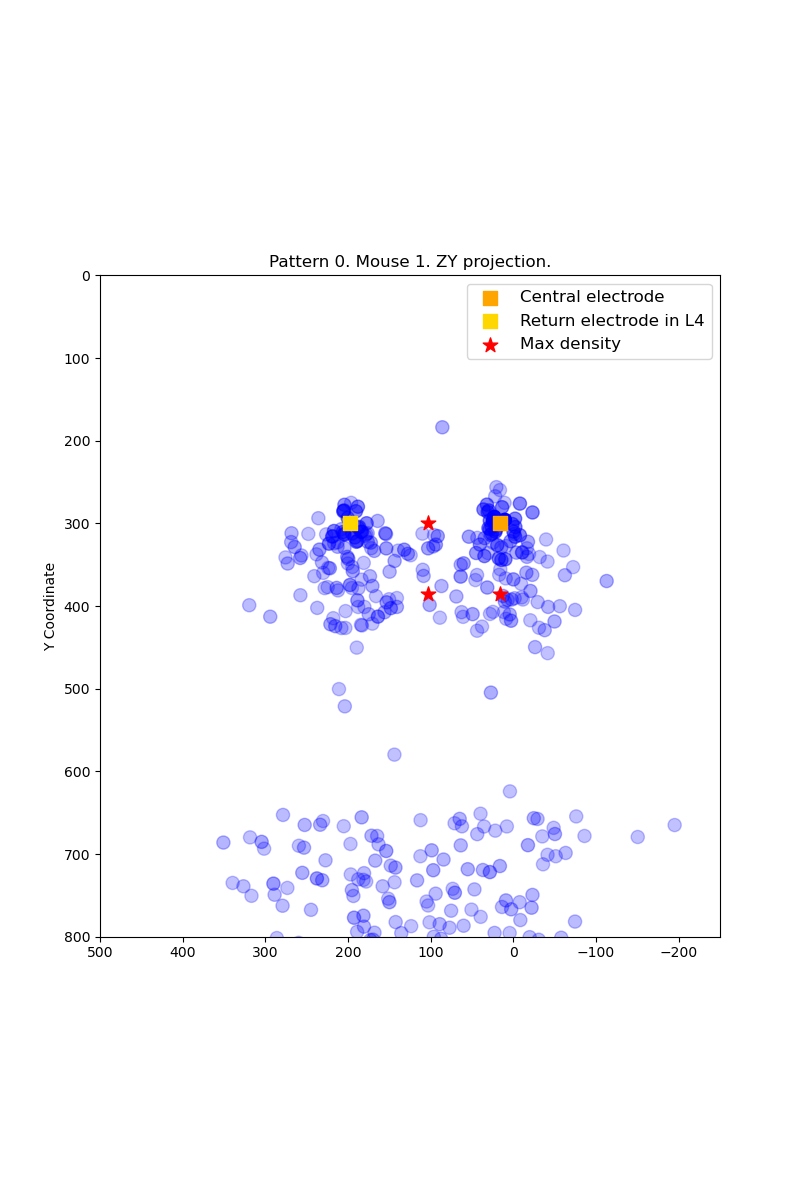
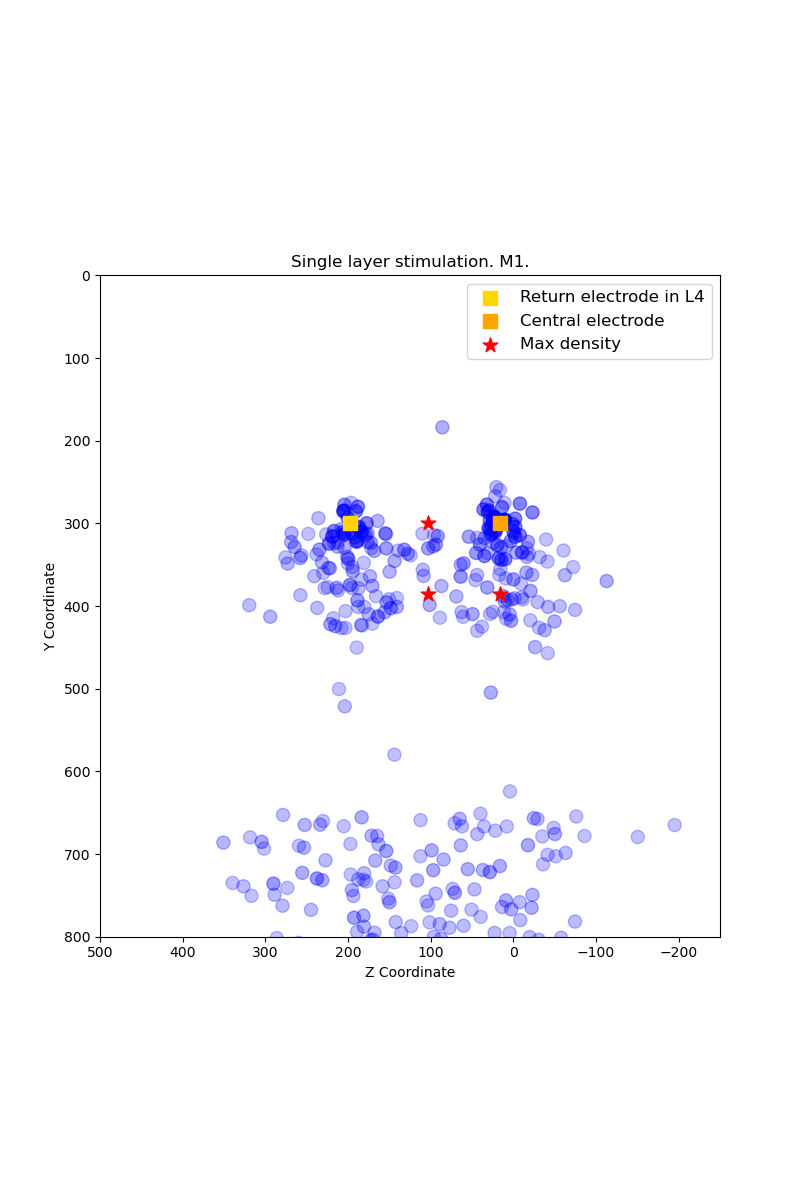
plots

Changed region(s): [[0.3438, 0.2158, 0.875, 0.2775], [0.4688, 0.8017, 0.5625, 0.8325]]

diff --git a/v1_Anke/toolbox/data_analyser_2.py b/v1_Anke/toolbox/data_analyser_2.py
@@ -58,7 +58,7 @@ def get_spikes(exp,pattern,mouse,amplitude, v1=True, **kwargs):
         #    spikes_bkg = pd.read_csv(spikes_bkg_dir, sep='\s+')
         #    for ind in spikes_bkg.index:
         #        if spikes_bkg['timestamps'][ind] < 100:
-         #           n_spikes_temp[spikes_bkg['node_ids'][ind]] = max(0, n_spikes_temp[spikes_bkg['node_ids'][ind]] - 1)
+        #           n_spikes_temp[spikes_bkg['node_ids'][ind]] = max(0, n_spikes_temp[spikes_bkg['node_ids'][ind]] - 1)
 
         node_pos = np.vstack((node_pos, node_pos_temp))
         n_spikes = np.append(n_spikes, n_spikes_temp)
@@ -109,6 +109,14 @@ def Pearsoncorrel(n_spikes_A, n_spikes_B,pattern_A,pattern_B,threshold_A, thresh
 
         statistic, pvalue = pearsonr(n_spikes_A, n_spikes_B, alternative ="greater")
         print('The Pearson correlation coefficient for stim patterns '+str(pattern_A)+' and '+str(pattern_B)+' is ' + str(round(statistic,2))+', the pvalue is '+str(round(pvalue,4)))
+        
+        plt.figure()
+        plt.scatter(n_spikes_A, n_spikes_B, s=30, cmap='viridis')
+        plt.xlabel('Spike rates for pattern ' + str(pattern_A))
+        plt.ylabel('Spike rates for pattern ' + str(pattern_B))
+        plt.show()
+    
+
         return(statistic, pvalue)
 
 def kernel_density_estimate(node_pos, n_spikes, pattern):
@@ -278,20 +286,31 @@ def plot1_kde(node_pos, n_spikes, pattern, mouse):
     electrode_3_zy=[198,170]
 
     fig = plt.figure(figsize=(8,12))
-        
+
+    if pattern==0:
+        pattern_title="Single layer stimulation. M"+str(mouse)+"."
+        plt.scatter(electrode_1_zy[0], electrode_1_zy[1], color='gold', s=110, marker='s', label='Return electrode in L4', zorder=3)
+    elif pattern==5:
+        pattern_title="Multilayer stimulation - 1 return electrode. M"+str(mouse)+"."
+        plt.scatter(electrode_2_zy[0], electrode_2_zy[1], color='gold', s=110, marker='s', label='Return electrode 1 in L2/3', zorder=3)
+    else:
+        pattern_title="Multilayer stimulation - 2 return electrodes. M"+str(mouse)+"."
+        plt.scatter(electrode_2_zy[0], electrode_2_zy[1], color='gold', s=110, marker='s', label='Return electrode 1 in L2/3', zorder=3)
+        plt.scatter(electrode_3_zy[0], electrode_3_zy[1], color='yellow', s=110, marker='s', label='Return electrode 2 in L2/3', zorder=3)
+
     #plt.axline(electrode_0_zy, electrode_1_zy, color='limegreen', label='Along layer')
     #plt.axline(electrode_0_zy, electrode_2_zy, color='darkgreen', label='Along column')
     plt.scatter(node_pos[:,1], node_pos[:,0], s=90, c="blue", alpha=n_spikes_norm)
     #plt.scatter(electrode_2_zy[0], electrode_2_zy[1], color='gold', s=110, marker='s', label='Return electrode 1 in L2/3', zorder=3)
     plt.scatter(electrode_0_zy[0], electrode_0_zy[1], color='orange', s=110, marker='s', label='Central electrode', zorder=3)
     #plt.scatter(electrode_1_zy[0], electrode_1_zy[1], color='gold', s=110, marker='s', label='Return electrode in L4', zorder=3)
-    plt.scatter(electrode_2_zy[0], electrode_2_zy[1], color='gold', s=110, marker='s', label='Return electrode 1 in L2/3', zorder=3)
-    plt.scatter(electrode_3_zy[0], electrode_3_zy[1], color='yellow', s=110, marker='s', label='Return electrode 2 in L2/3', zorder=3)
+    #plt.scatter(electrode_2_zy[0], electrode_2_zy[1], color='gold', s=110, marker='s', label='Return electrode 1 in L2/3', zorder=3)
+    #plt.scatter(electrode_3_zy[0], electrode_3_zy[1], color='yellow', s=110, marker='s', label='Return electrode 2 in L2/3', zorder=3)
     plt.scatter(max_z_axis, electrode_0_zy[1], color='red', marker='*', s=120, label='Max density', zorder=3)
     plt.scatter(electrode_0_zy[0], max_y_axis, color='red', marker='*', s=120, zorder=3)
     plt.scatter(max_z_axis,max_y_axis, color='red', marker='*', s=120, zorder=3)
 
-    plt.ylabel('Z Coordinate')
+    plt.xlabel('Z Coordinate')
     plt.ylabel('Y Coordinate')
     #plt.set_xlim([-250,500])
     #plt.set_ylim([100, 800])
@@ -301,31 +320,40 @@ def plot1_kde(node_pos, n_spikes, pattern, mouse):
     plt.gca().invert_yaxis()
     plt.gca().set_aspect('equal', adjustable='box')  # Set aspect ratio to be equal
     plt.legend(fontsize='12', loc='upper right')
-    plt.title("Pattern "+str(pattern)+". Mouse "+str(mouse)+". ZY projection.")
+
+    plt.title(pattern_title)
     plt.savefig('/scratch/leuven/356/vsc35693/neural-simulation/v1_Anke/exp_4/plots_el_positions/yz_kde_yz_p'+str(pattern)+'_m_'+str(mouse)+'.png')
     plt.show()
     return max_y_axis, max_z_axis  
 
 #path ='/scratch/leuven/356/vsc35693/neural-simulation/v1_Anke'
 exp=4
-pattern_A=7
+pattern_A=0
 mouse_A=1
 amplitude_A=10
 node_pos_A, n_spikes_A = get_spikes(exp=exp,pattern=pattern_A,mouse=mouse_A,amplitude=amplitude_A)
 
 pattern_B=7
-mouse_B=2
+mouse_B=1
 amplitude_B=10
-#node_pos_B, n_spikes_B = get_spikes(exp=exp,pattern=pattern_B,mouse=mouse_B,amplitude=amplitude_B)
+node_pos_B, n_spikes_B = get_spikes(exp=exp,pattern=pattern_B,mouse=mouse_B,amplitude=amplitude_B)
 
 positions_filtered_A, spikes_filtered_A, threshold_A = filter_spikes(node_pos_A, n_spikes_A)
-#positions_filtered_B, spikes_filtered_B, threshold_B = filter_spikes(node_pos_B, n_spikes_B)
+positions_filtered_B, spikes_filtered_B, threshold_B = filter_spikes(node_pos_B, n_spikes_B)
 
-max_y_axis_A, max_z_axis_B = plot1_kde(positions_filtered_A, spikes_filtered_A, pattern_A, mouse_A)
-#statistic, pvalue = Pearsoncorrel(n_spikes_A= n_spikes_A, n_spikes_B=n_spikes_B, pattern_A=pattern_A, pattern_B=pattern_B, threshold_A = threshold_A, threshold_B = threshold_B)
+"""for pattern in [0,5,7]:
+    pattern_A= pattern
+    amplitude_A = 10
+    for mouse in [0,1]:
+        mouse_A = mouse
+        node_pos_A, n_spikes_A = get_spikes(exp=exp,pattern=pattern_A,mouse=mouse_A,amplitude=amplitude_A)
+        positions_filtered_A, spikes_filtered_A, threshold_A = filter_spikes(node_pos_A, n_spikes_A)
+        max_y_axis_A, max_z_axis_B = plot1_kde(positions_filtered_A, spikes_filtered_A, pattern_A, mouse_A)"""
+
+statistic, pvalue = Pearsoncorrel(n_spikes_A= n_spikes_A, n_spikes_B=n_spikes_B, pattern_A=pattern_A, pattern_B=pattern_B, threshold_A = threshold_A, threshold_B = threshold_B)
 #coordin_A, n_spikes_A, y_grid_A, z_grid_A, density_A = kernel_density_estimate(node_pos=node_pos_A,n_spikes=n_spikes_A, pattern=pattern_A)
 #grid_y_A, grid_z_A, density_y_A, density_z_A = projected_kernel_density_estimate(node_pos_A, n_spikes_A)
-#max_y_A,max_z_A = full_kde(positions_filtered_A, spikes_filtered_A, pattern_A,mouse_A,amplitude_A)
+max_y_A,max_z_A = full_kde(positions_filtered_A, spikes_filtered_A, pattern_A,mouse_A,amplitude_A)
 #Underneath: test_code
 
 #coordinates= node_pos_A[:,1:]

diff --git a/v1_Anke/toolbox/data_analyser_2xz.py b/v1_Anke/toolbox/data_analyser_2xz.py
@@ -280,15 +280,21 @@ def plot1_kde(node_pos, n_spikes, pattern, mouse):
     electrode_3_zx=[198,-9]
 
     fig = plt.figure(figsize=(8,12))
+
+    if pattern==0:
+        pattern_title="Single layer stimulation. M"+str(mouse)+"."
+        plt.scatter(electrode_1_zx[0], electrode_1_zx[1], color='gold', s=110, marker='s', label='Return electrode in L4', zorder=3)
+    elif pattern==5:
+        pattern_title="Multilayer stimulation - 1 return electrode. M"+str(mouse)+"."
+        plt.scatter(electrode_2_zx[0], electrode_2_zx[1], color='gold', s=110, marker='s', label='Return electrode 1 in L2/3', zorder=3)
+    else:
+        pattern_title="Multilayer stimulation - 2 return electrodes. M"+str(mouse)+"."
+        plt.scatter(electrode_2_zx[0], electrode_2_zx[1], color='gold', s=110, marker='s', label='Return electrode 1 in L2/3', zorder=3)
+        plt.scatter(electrode_3_zx[0], electrode_3_zx[1], color='yellow', s=110, marker='s', label='Return electrode 2 in L2/3', zorder=3)
         
-    #plt.axline(electrode_0_zx, electrode_1_zx, color='limegreen', label='Along layer')
-    #plt.axline(electrode_0_zx, electrode_2_zx, color='darkgreen', label='Along column')
+
     plt.scatter(node_pos[:,1], node_pos[:,0], s=90, c="blue", alpha=n_spikes_norm)
-    plt.scatter(electrode_2_zx[0], electrode_2_zx[1], color='gold', s=110, marker='s', label='Return electrode 1 in L2/3', zorder=3)
     plt.scatter(electrode_0_zx[0], electrode_0_zx[1], color='orange', s=110, marker='s', label='Central electrode', zorder=3)
-    #plt.scatter(electrode_1_zx[0], electrode_1_zx[1], color='gold', s=110, marker='s', label='Return electrode in L4', zorder=3)
-    #plt.scatter(electrode_2_zx[0], electrode_2_zx[1], color='gold', s=110, marker='s', label='Return electrode 1 in L2/3', zorder=3)
-    plt.scatter(electrode_3_zx[0], electrode_3_zx[1], color='yellow', s=110, marker='s', label='Return electrode 2 in L2/3', zorder=3)
     plt.scatter(max_z_axis, electrode_0_zx[1], color='red', marker='*', s=120, label='Max density', zorder=3)
     plt.scatter(electrode_0_zx[0], max_x_axis, color='red', marker='*', s=120, zorder=3)
     plt.scatter(max_z_axis,max_x_axis, color='red', marker='*', s=120, zorder=3)
@@ -303,30 +309,39 @@ def plot1_kde(node_pos, n_spikes, pattern, mouse):
     plt.gca().invert_xaxis()
     plt.gca().set_aspect('equal', adjustable='box')  # Set aspect ratio to be equal
     plt.legend(fontsize='12', loc='upper right')
-    plt.title("Pattern "+str(pattern)+". Mouse "+str(mouse)+". ZX projection.")
+    plt.title(pattern_title)
     plt.savefig('/scratch/leuven/356/vsc35693/neural-simulation/v1_Anke/exp_4/plots_el_positions/xz_kde_xz_p'+str(pattern)+'_m_'+str(mouse)+'.png')
     plt.show()
     return max_x_axis, max_z_axis
 
 #path ='/scratch/leuven/356/vsc35693/neural-simulation/v1_Anke'
 exp=4
-pattern_A=7
-mouse_A=1
-amplitude_A=10
-node_pos_A, n_spikes_A = get_spikes(exp=exp,pattern=pattern_A,mouse=mouse_A,amplitude=amplitude_A)
+for pattern in [0,5,7]:
+    pattern_A= pattern
+    amplitude_A = 10
+    for mouse in [0,1]:
+        mouse_A = mouse
+        node_pos_A, n_spikes_A = get_spikes(exp=exp,pattern=pattern_A,mouse=mouse_A,amplitude=amplitude_A)
+        positions_filtered_A, spikes_filtered_A, threshold_A = filter_spikes(node_pos_A, n_spikes_A)
+        max_x_axis_A, max_z_axis_B = plot1_kde(positions_filtered_A, spikes_filtered_A, pattern_A, mouse_A)
 
-pattern_B=0
-mouse_B=1
-amplitude_B=10
-node_pos_B, n_spikes_B = get_spikes(exp=exp,pattern=pattern_B,mouse=mouse_B,amplitude=amplitude_B)
+#pattern_A=7
+#mouse_A=1
+#amplitude_A=10
+#node_pos_A, n_spikes_A = get_spikes(exp=exp,pattern=pattern_A,mouse=mouse_A,amplitude=amplitude_A)
 
-positions_filtered_A, spikes_filtered_A, threshold_A = filter_spikes(node_pos_A, n_spikes_A)
+#pattern_B=0
+#mouse_B=1
+#mplitude_B=10
+#node_pos_B, n_spikes_B = get_spikes(exp=exp,pattern=pattern_B,mouse=mouse_B,amplitude=amplitude_B)
+
+#positions_filtered_A, spikes_filtered_A, threshold_A = filter_spikes(node_pos_A, n_spikes_A)
 #positions_filtered_B, spikes_filtered_B, threshold_B = filter_spikes(node_pos_B, n_spikes_B)
 #statistic, pvalue = Pearsoncorrel(n_spikes_A= n_spikes_A, n_spikes_B=n_spikes_B, pattern_A=pattern_A, pattern_B=pattern_B, threshold_A = threshold_A, threshold_B = threshold_B)
 #coordin_A, n_spikes_A, y_grid_A, z_grid_A, density_A = kernel_density_estimate(node_pos=node_pos_A,n_spikes=n_spikes_A, pattern=pattern_A)
 #grid_y_A, grid_z_A, density_y_A, density_z_A = projected_kernel_density_estimate(node_pos_A, n_spikes_A)
 #max_x_A,max_z_A = full_kde(positions_filtered_A, spikes_filtered_A, pattern_A,mouse_A,amplitude_A)
-max_x_A,max_z_A= plot1_kde(positions_filtered_A, spikes_filtered_A, pattern_A,mouse_A)
+#max_x_A,max_z_A= plot1_kde(positions_filtered_A, spikes_filtered_A, pattern_A,mouse_A)
 #Underneath: test_code
 
 #coordinates= node_pos_A[:,1:]
